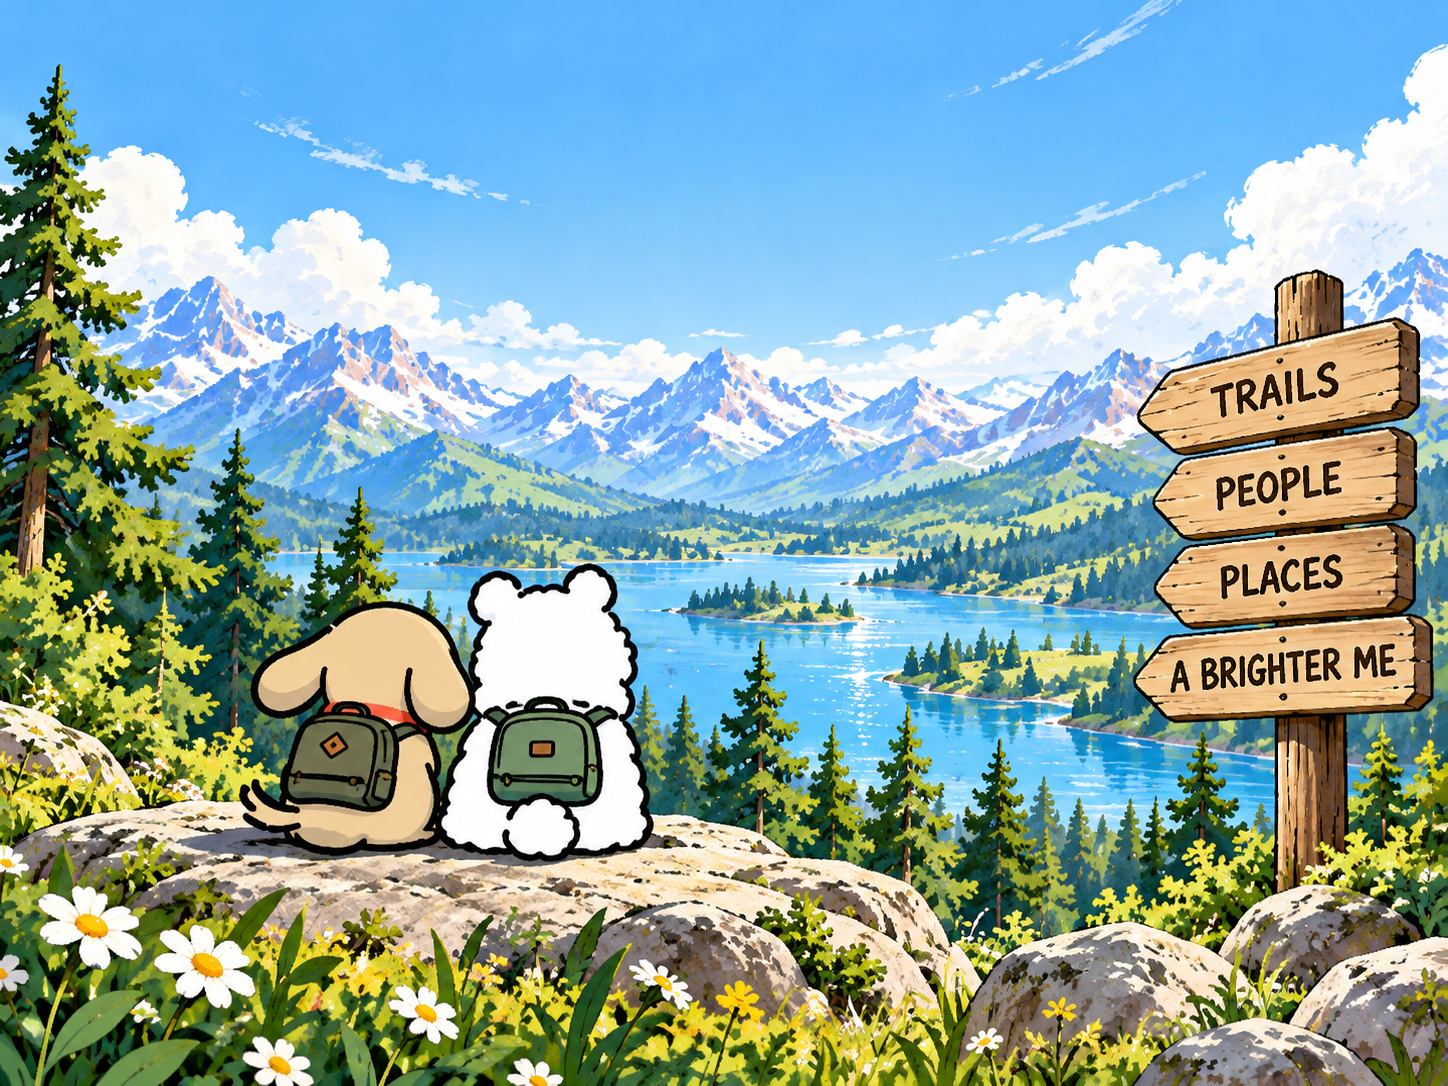
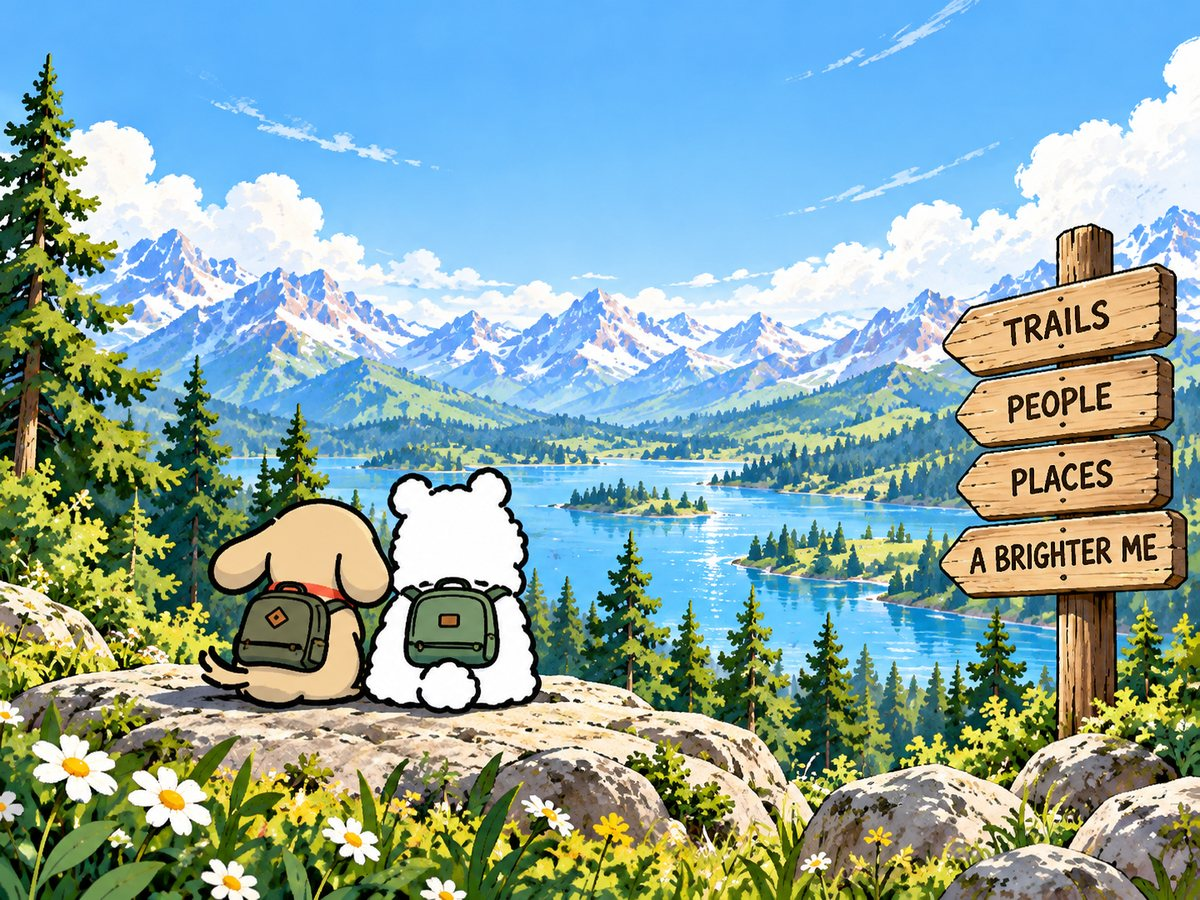
Add files via upload

diff --git a/sw.js b/sw.js
@@ -1,14 +1,67 @@
-const CACHE='shared-hiking-v4-iphone';
-const CORE=['./','./index.html','./styles.css','./app.js','./config.js','./seed.json','./manifest.webmanifest','./assets/top-banner.jpg','./assets/bottom-banner.jpg','./assets/icon-192.png','./assets/icon-512.png'];
-self.addEventListener('install',e=>e.waitUntil(caches.open(CACHE).then(c=>c.addAll(CORE)).then(()=>self.skipWaiting())));
-self.addEventListener('activate',e=>e.waitUntil(caches.keys().then(keys=>Promise.all(keys.filter(k=>k!==CACHE).map(k=>caches.delete(k)))).then(()=>self.clients.claim())));
-self.addEventListener('fetch',e=>{
-  if(e.request.method!=='GET') return;
-  const u=new URL(e.request.url);
-  if(u.origin!==location.origin) return;
-  e.respondWith(fetch(e.request).then(r=>{
-    const copy=r.clone();
-    caches.open(CACHE).then(c=>c.put(e.request,copy));
-    return r;
-  }).catch(()=>caches.match(e.request)));
+const CACHE='shared-hiking-v5-fast';
+const CORE=[
+  './',
+  './index.html',
+  './styles.css',
+  './app.js',
+  './config.js',
+  './seed.json',
+  './manifest.webmanifest',
+  './assets/top-banner.webp',
+  './assets/bottom-banner.webp',
+  './assets/top-banner.jpg',
+  './assets/bottom-banner.jpg',
+  './assets/icon-192.png',
+  './assets/icon-512.png'
+];
+
+self.addEventListener('install', event=>{
+  event.waitUntil(
+    caches.open(CACHE)
+      .then(cache=>cache.addAll(CORE))
+      .then(()=>self.skipWaiting())
+  );
+});
+
+self.addEventListener('activate', event=>{
+  event.waitUntil(
+    caches.keys()
+      .then(keys=>Promise.all(keys.filter(k=>k!==CACHE).map(k=>caches.delete(k))))
+      .then(()=>self.clients.claim())
+  );
+});
+
+self.addEventListener('fetch', event=>{
+  if(event.request.method!=='GET') return;
+
+  const url=new URL(event.request.url);
+  if(url.origin!==self.location.origin) return;
+
+  event.respondWith(
+    caches.match(event.request).then(cached=>{
+      // Cache-first for instant repeat loads.
+      // Refresh the cached copy quietly in the background.
+      const refresh=fetch(event.request)
+        .then(response=>{
+          if(response && response.ok){
+            const copy=response.clone();
+            caches.open(CACHE).then(cache=>cache.put(event.request,copy));
+          }
+          return response;
+        })
+        .catch(()=>null);
+
+      if(cached){
+        event.waitUntil(refresh);
+        return cached;
+      }
+
+      return refresh.then(response=>{
+        if(response) return response;
+        // Navigation fallback if both network and exact cache miss fail.
+        if(event.request.mode==='navigate') return caches.match('./index.html');
+        return new Response('',{status:504,statusText:'Offline'});
+      });
+    })
+  );
 });

diff --git a/index.html b/index.html
@@ -9,12 +9,16 @@
   <meta name="apple-mobile-web-app-title" content="山野清单">
   <link rel="manifest" href="./manifest.webmanifest">
   <link rel="apple-touch-icon" href="./assets/icon-192.png">
+  <link rel="preload" as="image" href="./assets/top-banner.webp" type="image/webp" fetchpriority="high">
   <link rel="stylesheet" href="./styles.css">
   <title>山野清单 · Shared Hiking Album</title>
 </head>
 <body>
   <header class="top-art">
-    <img src="./assets/top-banner.jpg" alt="徒步清单">
+    <picture>
+      <source srcset="./assets/top-banner.webp" type="image/webp">
+      <img src="./assets/top-banner.jpg" alt="徒步清单" width="1440" height="480" decoding="async" fetchpriority="high">
+    </picture>
   </header>
 
   <main class="app-shell">
@@ -50,7 +54,10 @@
   </main>
 
   <footer class="bottom-art">
-    <img src="./assets/bottom-banner.jpg" alt="两只狗看向山野">
+    <picture>
+      <source srcset="./assets/bottom-banner.webp" type="image/webp">
+      <img src="./assets/bottom-banner.jpg" alt="两只狗看向山野" width="1200" height="900" loading="lazy" decoding="async" fetchpriority="low">
+    </picture>
   </footer>
 
   <dialog id="authDialog" class="dialog">
@@ -96,7 +103,7 @@
 
   <section id="album" class="album" aria-hidden="true">
     <div id="albumHero" class="album-hero">
-      <img id="albumCover" class="album-cover" alt="">
+      <img id="albumCover" class="album-cover" alt="" decoding="async" fetchpriority="high">
       <div class="hero-shade"></div>
       <button class="round-back" id="albumBack">‹</button>
       <button class="round-more" id="editPlaceBtn">•••</button>

diff --git a/app.js b/app.js
@@ -478,14 +478,14 @@
       .select("*").eq("place_id",placeId).order("created_at");
     if(error) throw error;
 
-    const out=[];
-    for(const r of data||[]){
+    // Generate all signed URLs in parallel instead of waiting for each photo
+    // one-by-one. This makes albums with many photos open much faster.
+    return Promise.all((data||[]).map(async r=>{
       const {data:signed,error:signError}=await sb.storage
         .from("trip-photos").createSignedUrl(r.storage_path,3600);
       if(signError) console.warn(signError);
-      out.push({...r,url:signed?.signedUrl||""});
-    }
-    return out;
+      return {...r,url:signed?.signedUrl||""};
+    }));
   }
 
   async function cloudPhotoAdd(placeId,file){
@@ -556,7 +556,7 @@
         const item=document.createElement("div");
         item.className="photo";
         item.innerHTML=`
-          <img src="${esc(rec.url)}" alt="">
+          <img src="${esc(rec.url)}" alt="" loading="lazy" decoding="async">
           ${state.canEdit ? `
           <div class="photo-actions">
             <button class="cover">${rec.is_cover?"封面 ✓":"设为封面"}</button>
@@ -749,7 +749,9 @@
   // ---------------- Boot ----------------
   async function boot(){
     if(CLOUD){
-      sb.auth.onAuthStateChange(()=>setTimeout(updateAuthUI,0));
+      sb.auth.onAuthStateChange((event)=>{
+        if(event!=="INITIAL_SESSION") setTimeout(updateAuthUI,0);
+      });
       await updateAuthUI();
     }else{
       await localInit();

diff --git a/styles.css b/styles.css
@@ -39,6 +39,7 @@ button,input,select,textarea{touch-action:manipulation}
 
 /* Full-resolution new illustrations, without destructive mobile cropping */
 .top-art,.bottom-art{width:100%;overflow:hidden}
+.top-art picture,.bottom-art picture{display:block;width:100%}
 
 .top-art{
   background:#7bc9ee;
